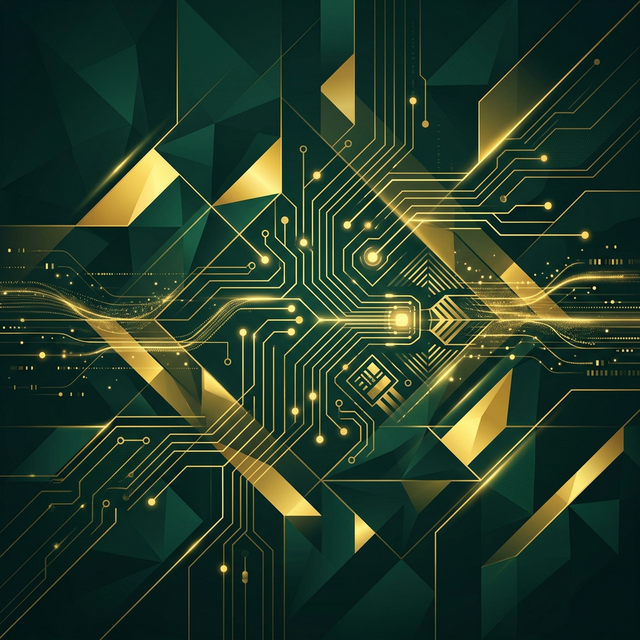
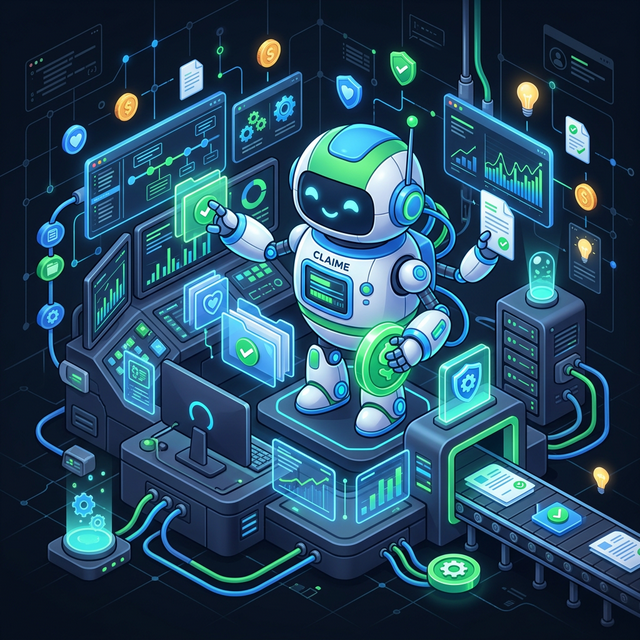
feat: update images, new retrieval & re-ranking deep dive

diff --git a/presentation/app.py b/presentation/app.py
@@ -28,7 +28,7 @@ if css_path.exists():
 ASSETS = Path(__file__).parent / "assets"
 
 # ── Sidebar Navigation ──────────────────────────────────────────
-st.sidebar.markdown("## ⚡ AI Tech Showcase")
+st.sidebar.markdown("## ⚡ Suncorp Tech Showcase")
 st.sidebar.markdown("---")
 
 slide = st.sidebar.radio(
@@ -36,9 +36,10 @@ slide = st.sidebar.radio(
     [
         "1. Title",
         "2. Background & Goal",
-        "3. Implementation & Architecture",
-        "4. Project Outcomes",
-        "5. Future State",
+        "3. Retrieval & Re-ranking Deep Dive",
+        "4. Implementation & Architecture",
+        "5. Project Outcomes",
+        "6. Future State",
     ],
     label_visibility="collapsed",
 )
@@ -166,9 +167,61 @@ elif slide == "2. Background & Goal":
 
 
 # ━━━━━━━━━━━━━━━━━━━━━━━━━━━━━━━━━━━━━━━━━━━━━━━━━━━━━━━━━━━━━━
-# SLIDE 3: Implementation & Architecture
+# SLIDE 3: Retrieval & Re-ranking Deep Dive
 # ━━━━━━━━━━━━━━━━━━━━━━━━━━━━━━━━━━━━━━━━━━━━━━━━━━━━━━━━━━━━━━
-elif slide == "3. Implementation & Architecture":
+elif slide == "3. Retrieval & Re-ranking Deep Dive":
+    st.title("Retrieval & Re-ranking Deep Dive")
+    st.markdown("---")
+
+    col1, col2 = st.columns([1, 1], gap="large")
+
+    with col1:
+        st.subheader("🔍 Smart Retrieval: Noise to Signal")
+        st.markdown(
+            """
+            To avoid hallucinations, the system must find the **exactly relevant** 
+            policy clauses within 500+ pages of Product Disclosure Statements (PDS).
+
+            1.  **Vector Search**: Matches the claim semantics against the PDS.
+            2.  **Cross-Encoder Re-ranking**: A second, heavy-weight model 
+                filters out 'nearby' but irrelevant clauses.
+            """
+        )
+        
+        ranking_img = ASSETS / "retrieval_ranking.png"
+        if ranking_img.exists():
+            st.image(str(ranking_img), width="stretch")
+
+    with col2:
+        st.subheader("Real Example: Burst Pipe Claim")
+        st.info("Query: 'Is water damage from a burst pipe covered for contents?'")
+        
+        st.markdown("### 🥉 Raw Vector Retrieval (Top 3)")
+        st.caption("Lower precision, identifies potential context.")
+        st.code(
+            "- Chunk A: [Score: 0.82] Section 8: General Exclusions for Maintenance...\n"
+            "- Chunk B: [Score: 0.79] Section 4.2: Damage caused by Liquid...\n"
+            "- Chunk C: [Score: 0.75] Section 12: Glossary of Terms: 'Contents'... ",
+            language="text"
+        )
+
+        st.markdown("### 🥇 Re-Ranked Output (Single Truth)")
+        st.caption("High precision, selects the actionable policy text.")
+        st.success(
+            "**Section 4.2: Escape of Liquid**\n\n"
+            "We cover liquid escaping from pipes or fixed apparatus. "
+            "This includes damage to your Contents if you have chosen "
+            "Contents cover."
+        )
+        st.markdown(
+            "**Re-ranker Confidence: 0.98** — *System can now auto-adjudicate with 0% hallucination risk.*"
+        )
+
+
+# ━━━━━━━━━━━━━━━━━━━━━━━━━━━━━━━━━━━━━━━━━━━━━━━━━━━━━━━━━━━━━━
+# SLIDE 4: Implementation & Architecture
+# ━━━━━━━━━━━━━━━━━━━━━━━━━━━━━━━━━━━━━━━━━━━━━━━━━━━━━━━━━━━━━━
+elif slide == "4. Implementation & Architecture":
     st.title("Implementation & Architecture")
     st.markdown("---")
 
@@ -282,9 +335,9 @@ class AdjudicationResult(BaseModel):
 
 
 # ━━━━━━━━━━━━━━━━━━━━━━━━━━━━━━━━━━━━━━━━━━━━━━━━━━━━━━━━━━━━━━
-# SLIDE 4: Project Outcomes
+# SLIDE 5: Project Outcomes
 # ━━━━━━━━━━━━━━━━━━━━━━━━━━━━━━━━━━━━━━━━━━━━━━━━━━━━━━━━━━━━━━
-elif slide == "4. Project Outcomes":
+elif slide == "5. Project Outcomes":
     st.title("Project Outcomes")
     st.markdown("---")
 
@@ -380,9 +433,9 @@ elif slide == "4. Project Outcomes":
 
 
 # ━━━━━━━━━━━━━━━━━━━━━━━━━━━━━━━━━━━━━━━━━━━━━━━━━━━━━━━━━━━━━━
-# SLIDE 5: Future State & Scaling
+# SLIDE 6: Future State & Scaling
 # ━━━━━━━━━━━━━━━━━━━━━━━━━━━━━━━━━━━━━━━━━━━━━━━━━━━━━━━━━━━━━━
-elif slide == "5. Future State":
+elif slide == "6. Future State":
     st.title("Future State & Scaling")
     st.markdown("---")
 
@@ -430,6 +483,10 @@ elif slide == "5. Future State":
 
     st.markdown("")
     st.subheader("Scaling the Architecture")
+
+    scaling_img = ASSETS / "scaling_architecture.png"
+    if scaling_img.exists():
+        st.image(str(scaling_img), width="stretch")
 
     col1, col2, col3 = st.columns(3)
 
